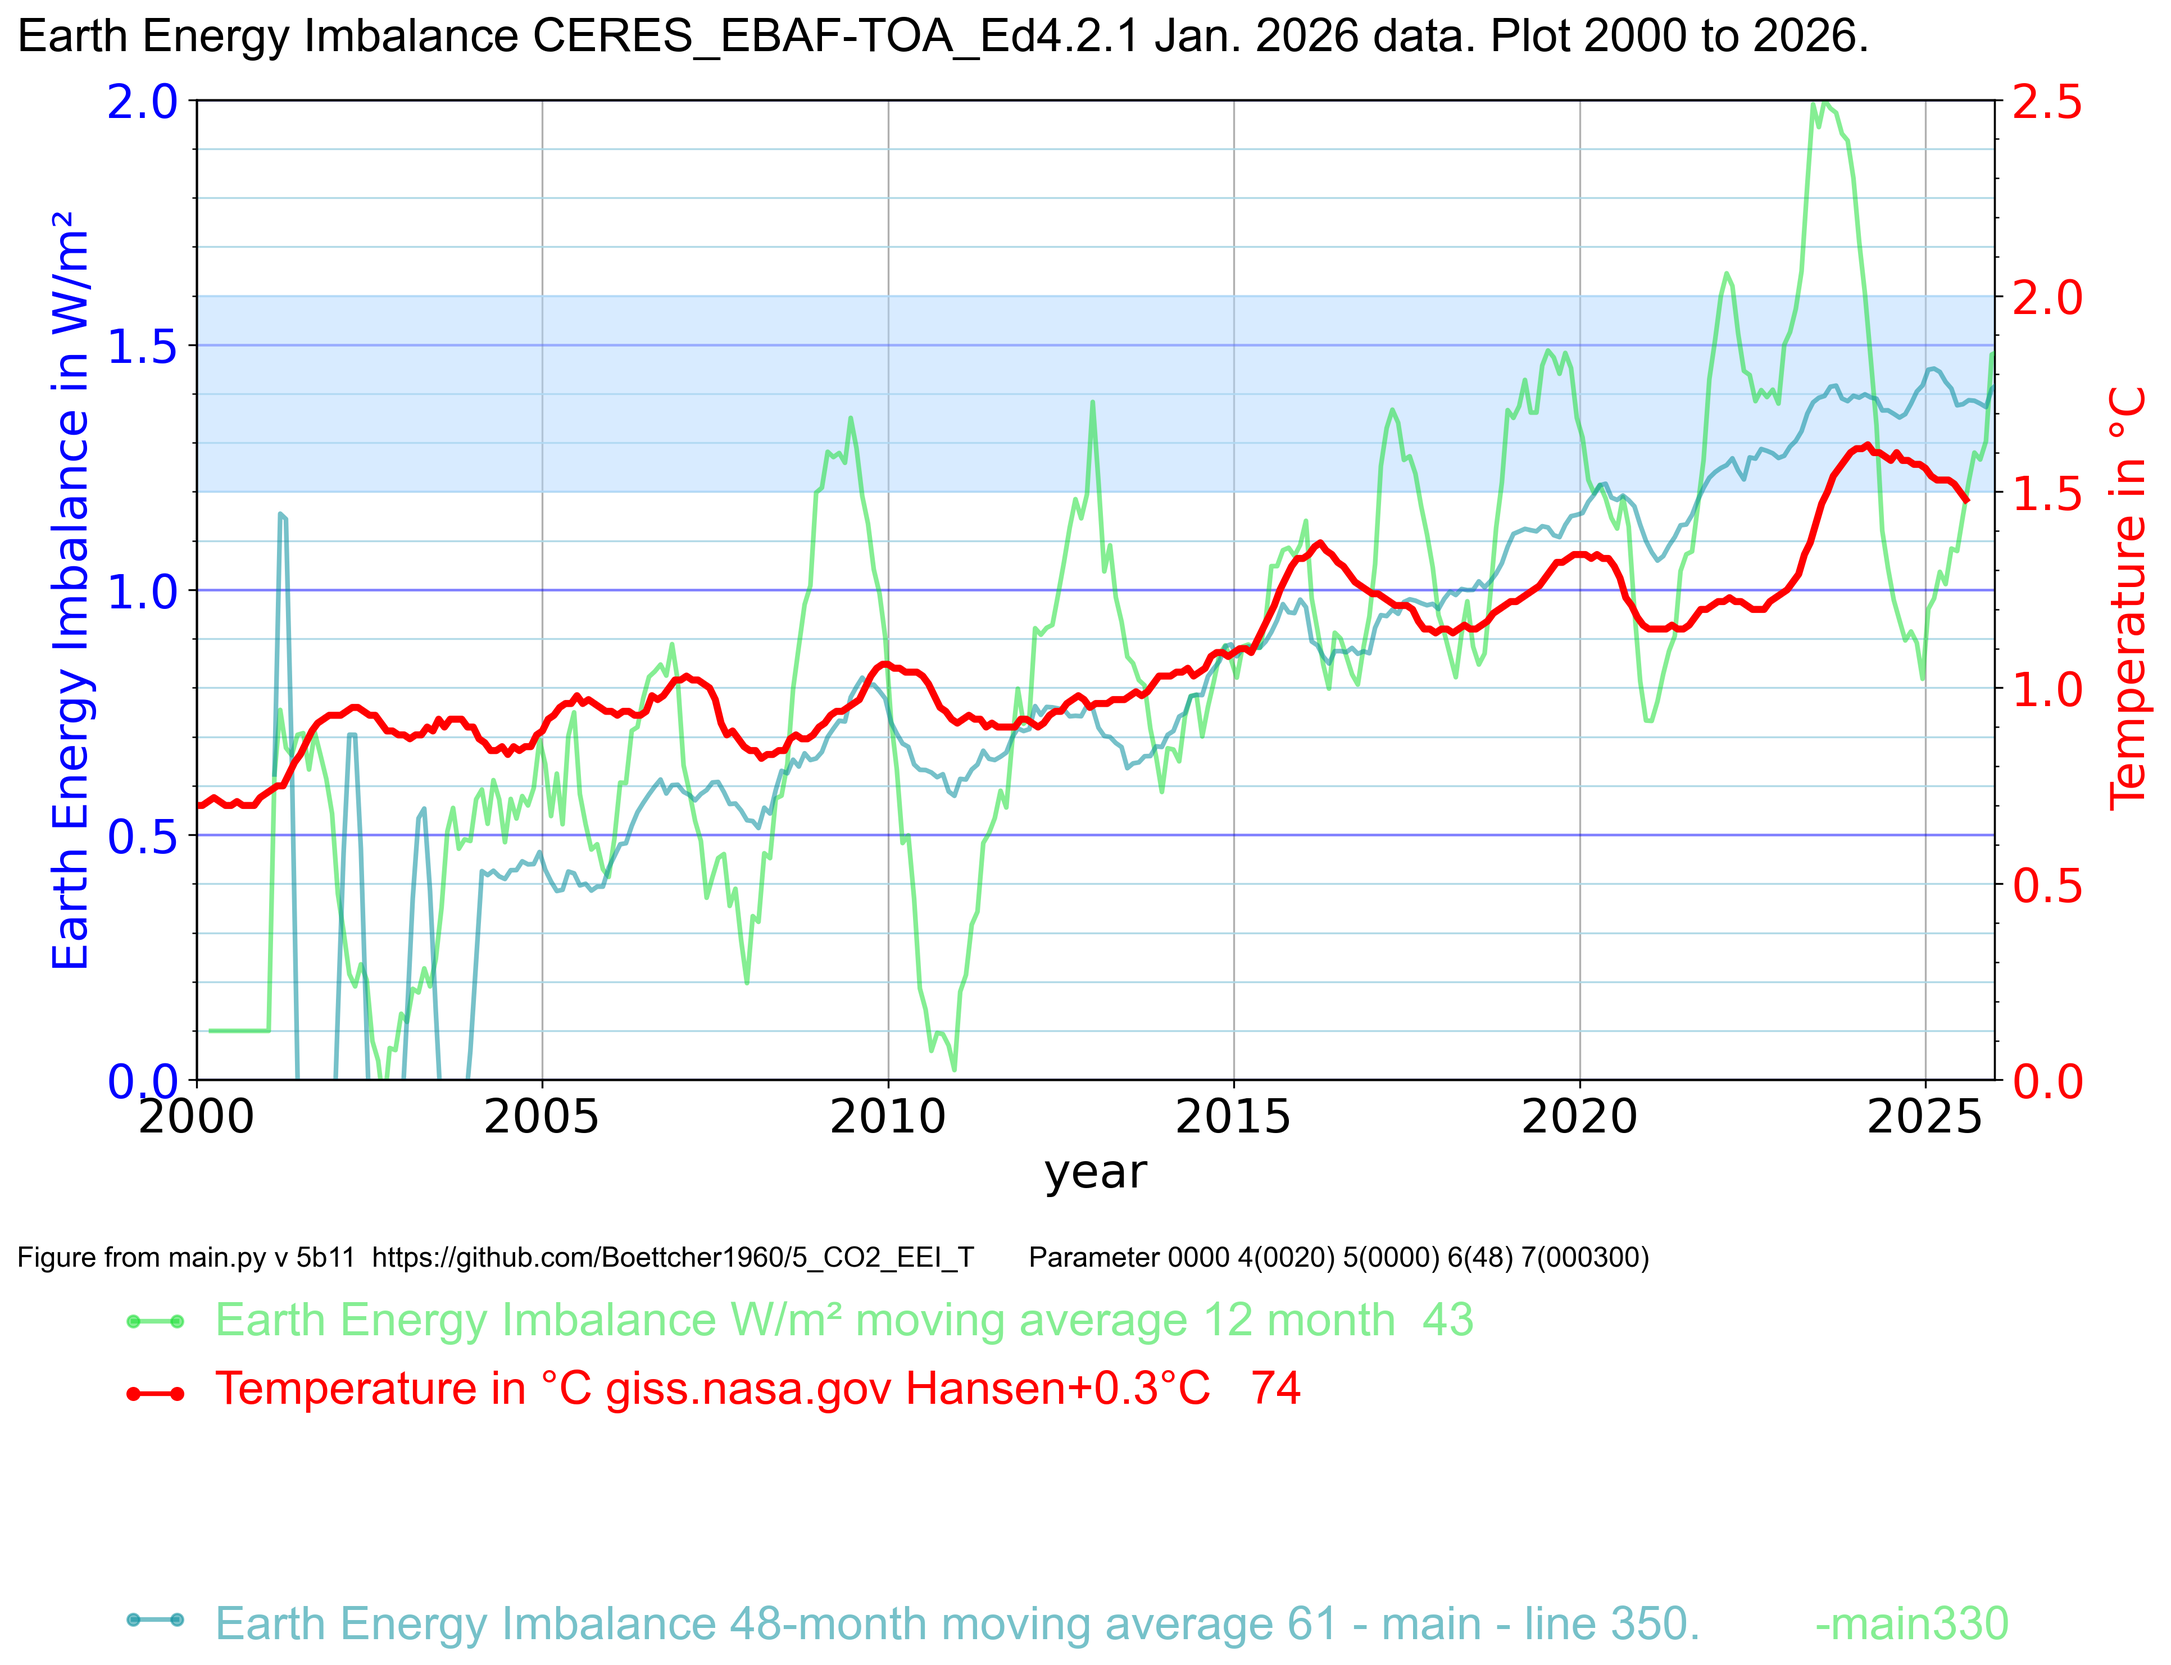
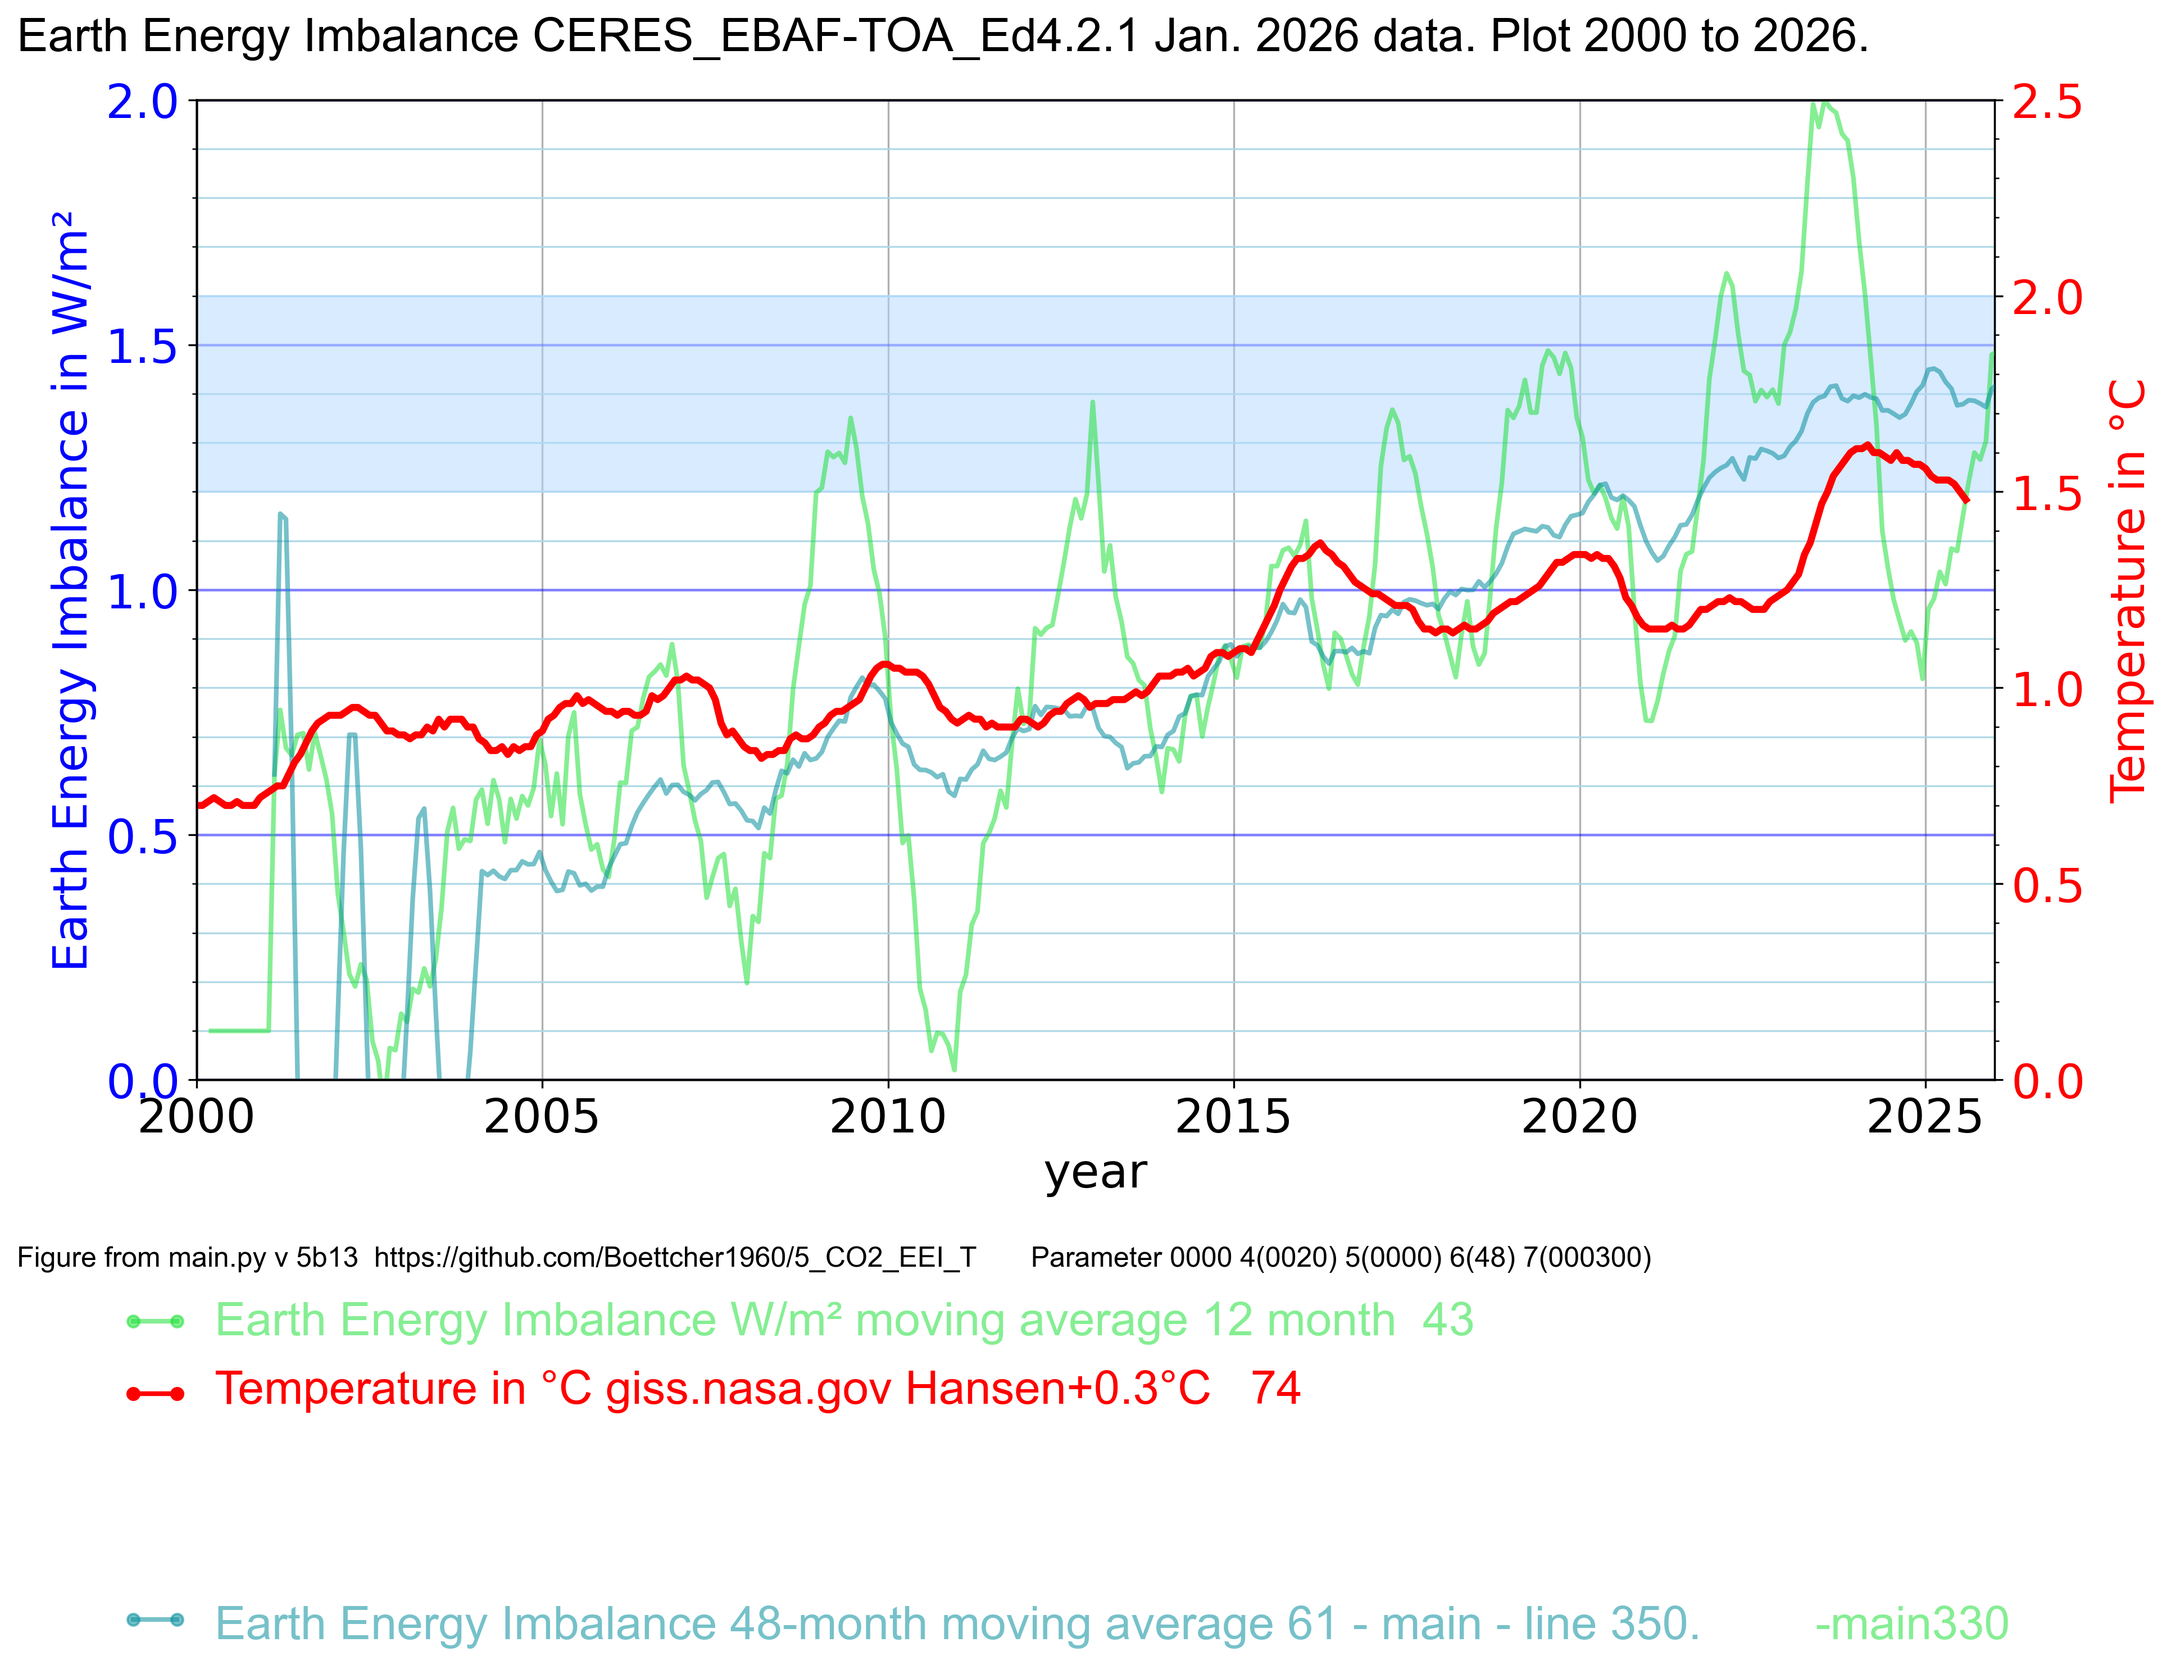
v = "5b13" #  # 8.7 print the right y axis

Changed region(s): [[0.4658, 0.7449, 0.7764, 0.776], [0.9627, 0.2173, 0.9938, 0.4966], [0.1553, 0.7449, 0.4348, 0.776]]

diff --git a/plotting.py b/plotting.py
@@ -6,14 +6,14 @@ color_left = "blue" # color of left y axis
 
 def setup_figure(scale_mode=10):
     """Setup the figure with appropriate size"""
-    if scale_mode == 7:
-        fig, ax1 = plt.subplots(figsize=(13, 7))
-    elif scale_mode == 8:
-        fig, ax1 = plt.subplots(figsize=(13, 8))
-    elif scale_mode == 10:
-        fig, ax1 = plt.subplots(figsize=(13, 10))
-    else:
-        fig, ax1 = plt.subplots(figsize=(13, 7))
+    #if scale_mode == 7:
+    #    fig, ax1 = plt.subplots(figsize=(13, 7))
+    #elif scale_mode == 8:
+    #    fig, ax1 = plt.subplots(figsize=(13, 8))
+    #elif scale_mode == 10:
+    fig, ax1 = plt.subplots(figsize=(13, 10))
+    #else:
+    #    fig, ax1 = plt.subplots(figsize=(13, 7))
     
     fig.subplots_adjust(bottom=0.30)
     return fig, ax1
@@ -80,15 +80,7 @@ def configure_right_y_axis(ax, y_Tmin, y_Tmax, color, label):
 def right_T_y_axis(ax, y_Tmin, y_Tmax, color, label):
     """Configure the first right y-axis for temperature"""
     ax2 = ax.twinx()
-    # ax2.set_ylabel (
-    #         "Δ GIS Temperature in °C ",
-    #         color="red",
-    #         fontname="Arial",fontsize=20,
-    #         labelpad=1   # smaller = closer to y axis
-    #       )
-    # ax2.set_ylabel('Temperature (°C)', color='r')
     ax2.tick_params(axis='y', labelcolor='r')
-
     ax2.tick_params(axis="y", labelcolor=color, labelsize=20)
     ax2.set_ylim(y_Tmin, y_Tmax)
     ax2.yaxis.set_major_locator(MultipleLocator(0.5))

diff --git a/main.py b/main.py
@@ -1,6 +1,6 @@
 # main.py
 # part 1 configure 
-v = "5b12" #  # 8.7 print the right y axis
+v = "5b13" #  # 8.7 print the right y axis
 #  bug 44  69month is 0.5 low  12month is 0.5 low   48month is 0.5 low
 #  bug 44  part44_ceres_eei is local main line 116
 #
@@ -443,10 +443,10 @@ def main():
                          y_Tmin, y_Tmax, yl_mode, c22, c42, c74)
     
     # 8.7 print the right y axis
-    label  ="Temperature in °C "
-    # def right_T_y_axis(ax, y_Tmin, y_Tmax, color, label):
+    label  ="Temperature in °C"
     axT = right_T_y_axis(ax1, y_Tmin, y_Tmax, c74, label)
     # axT is the temperature scaling
+
 
     # Create plots
     create_plots(ax1, data)
@@ -488,7 +488,7 @@ def main():
     # main_484: Axis 2: yaxis side = right, label = ''
     axes = plt.gcf().get_axes()
     # Keep axes 0, 1, 2, hide all others
-    for i in range(2, len(axes)):
+    for i in range(2, len(axes)): # remove Axis 3, 4
         axes[i].yaxis.set_ticks([])  # Remove tick numbers
         axes[i].set_yticklabels([])  # Remove tick labels
         axes[i].spines['right'].set_visible(False)
